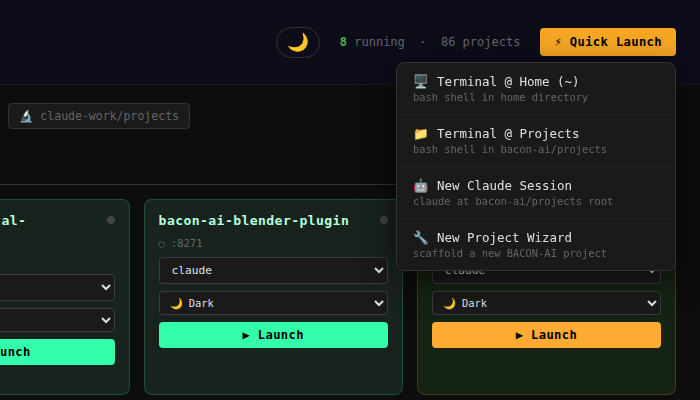
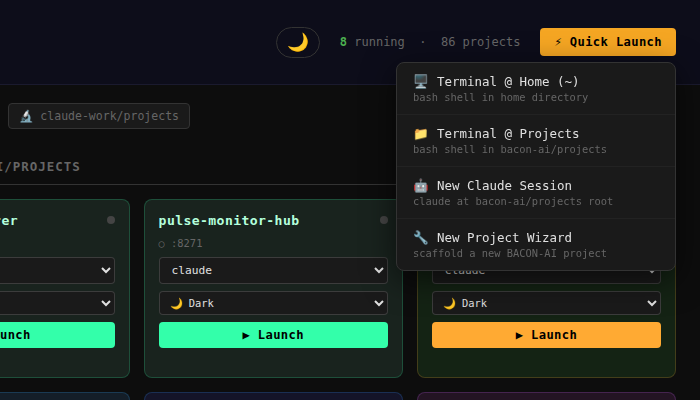
fix: anonymize screenshots — replace real project names with fictional ones

diff --git a/README.md b/README.md
@@ -73,11 +73,6 @@ When you're running 10+ parallel Claude Code sessions, you need to know **instan
 
 Each theme is applied by **restarting code-server** with the new `settings.json` &mdash; the full IDE environment updates: editor background, sidebar, terminal, status bar, tab colors, and accent highlights.
 
-<p align="center">
-  <img src="screenshots/claude-theme-codeserver.png" alt="Claude Theme in code-server" width="100%" />
-  <br /><em>A project launched with the Claude Dark theme &mdash; deep indigo background, amber accents, Claude Code running in the terminal</em>
-</p>
-
 ### Session Browser with Resume & Fork
 
 Browse previous Claude Code conversations per project. Preview the first user messages to remember what each session was about. Then **resume** exactly where you left off, or **fork** to branch a new conversation from any point.
